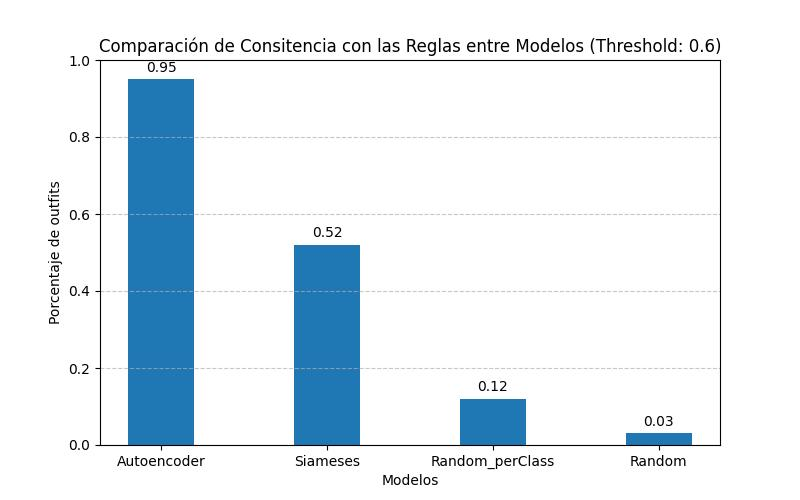
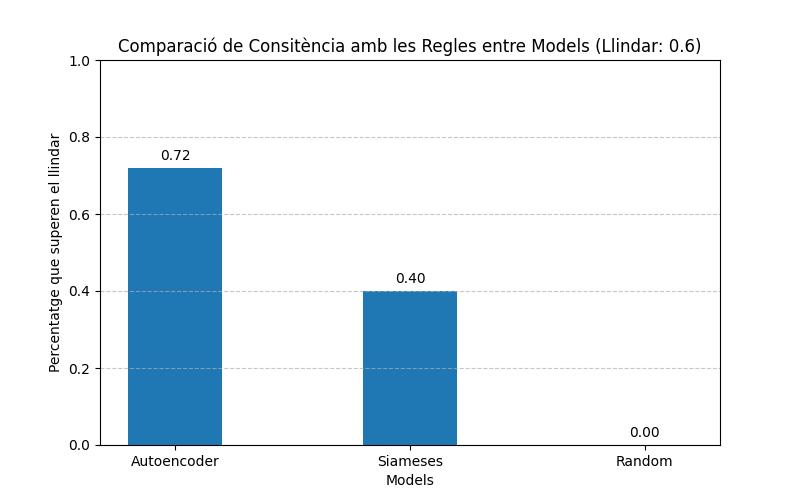
last changes

diff --git a/metrica_reglas.py b/metrica_reglas.py
@@ -47,15 +47,15 @@ def validate_outfit_multidimensional(outfit, compatibility_matrices, encoders):
                 else:
                     raise ValueError("Solo se soportan matrices de 2 o 3 dimensiones.")
 
-                total_score += compatibility
+                total_score += (compatibility**0.6)
                 count += 1
 
-    return total_score / count if count > 0 else 0
+    return (total_score / count if count > 0 else 0)**(1/0.6)
 
 
 def evaluate_recommendations_multidimensional(recommendations_df, compatibility_matrices, encoders, threshold=0.55):
     compliant = 0
-    
+    mean=[]
     # Convertir el DataFrame en una lista de outfits
     grouped_recommendations = recommendations_df.groupby('outfit_id')  # Agrupa por una columna "outfit_id"
     for _, group in grouped_recommendations:
@@ -63,8 +63,10 @@ def evaluate_recommendations_multidimensional(recommendations_df, compatibility_
         score = validate_outfit_multidimensional(outfit, compatibility_matrices, encoders)
         if score >= threshold:  # Cumple si el score >= threshold
             compliant += 1
+        mean.append(score)
     compliance_rate = compliant / len(grouped_recommendations)
-    return compliance_rate
+#    mean= mean  / len(grouped_recommendations)
+    return compliance_rate , mean
 
 
 # Define helper functions
@@ -99,36 +101,36 @@ outfits_random_perClass_df=pd.read_csv(path_resources+"outfits_random_perClass.c
 
 threshold=0.6
 # Evaluar las recomendaciones
-compliance_rate_autoeencoder = evaluate_recommendations_multidimensional(outfits_autoencoder_df, 
+compliance_rate_autoeencoder, mean_autoeencoder= evaluate_recommendations_multidimensional(outfits_autoencoder_df, 
                                                                          compatibility_matrices, encoders,threshold)
 
 with open(path_resources+'autoencoder_encoders.pkl', 'rb') as file:
     encoders = pickle.load(file)
 
 # Evaluar las recomendaciones
-compliance_rate_siameses = evaluate_recommendations_multidimensional(outfits_siameses_df, 
+compliance_rate_siameses, mean_siameses = evaluate_recommendations_multidimensional(outfits_siameses_df, 
                                                                      compatibility_matrices, encoders,threshold)
 
 
 # Evaluar las recomendaciones
-compliance_rate_random = evaluate_recommendations_multidimensional(outfits_aleatorios_df, 
+compliance_rate_random, mean_random = evaluate_recommendations_multidimensional(outfits_aleatorios_df, 
                                                                    compatibility_matrices, encoders,threshold)
 
 
-compliance_rate_randomPerclass = evaluate_recommendations_multidimensional(outfits_random_perClass_df, 
+compliance_rate_randomPerclass, mean_randomPerclass = evaluate_recommendations_multidimensional(outfits_random_perClass_df, 
                                                                    compatibility_matrices, encoders,threshold)
 
 
-models = ['Autoencoder', 'Siameses','Random_perClass' ,'Random']
-accuracies = [compliance_rate_autoeencoder, compliance_rate_siameses, compliance_rate_randomPerclass ,compliance_rate_random]
+models = ['Autoencoder', 'Siameses' ,'Random']
+accuracies = [compliance_rate_autoeencoder, compliance_rate_siameses ,compliance_rate_random]
 
 # Crear el gráfico de barras
 plt.figure(figsize=(8, 5))
 plt.bar(models, accuracies, width=0.4)
 plt.ylim(0, 1)  # Rango de 0 a 1 para representar accuracies
-plt.title(f'Comparación de Consitencia con las Reglas entre Modelos (Threshold: {threshold})')
-plt.ylabel('Porcentaje de outfits')
-plt.xlabel('Modelos')
+plt.title(f'Comparació de Consitència amb les Regles entre Models (Llindar: {threshold})')
+plt.ylabel('Percentatge que superen el llindar')
+plt.xlabel('Models')
 plt.grid(axis='y', linestyle='--', alpha=0.7)
 # Mostrar los valores sobre las barras
 for i, v in enumerate(accuracies):
@@ -136,3 +138,21 @@ for i, v in enumerate(accuracies):
 
 
 plt.savefig(os.getcwd() + "/archivos_informe/grafico_reglas.jpg")
+
+
+
+means = [mean_autoeencoder, mean_siameses ,mean_random]
+
+# Crear el boxplot
+plt.figure(figsize=(8, 5))
+plt.boxplot(means, labels=models)
+
+# Configuración del gráfico
+plt.ylim(0, 1)  # Ajustar rango de valores
+plt.title('Distribució de Consitència amb les Regles entre Models')
+plt.ylabel('Consitència')
+plt.xlabel('Models')
+plt.grid(axis='y', linestyle='--', alpha=0.7)
+
+
+plt.savefig(os.getcwd() + "/archivos_informe/grafico_reglas_distribucion.jpg")

diff --git a/generate_outfits_aval.py b/generate_outfits_aval.py
@@ -70,7 +70,6 @@ siameses_model=OutfitRecommenderSiameses(path_resources)
 
 
 for index, df_data_prenda in samples.iterrows():
-    print(outfit_id)
     # Descargar imagen con reintentos
     image = get_image_with_retries(df_data_prenda["link"], max_retries=3, delay=3)
     if image is None:
@@ -83,7 +82,7 @@ for index, df_data_prenda in samples.iterrows():
     input_data[columnas_letab] = preprocess_input_data(df_data_prenda[columnas_letab], autoencoder_model)
     input_data_drop = input_data.drop(["image", "id", "link"], errors="ignore", axis=1)
     tensor_tuple = get_tensor_tuple(input_data_drop)
-    input_embedding = autoencoder_model.get_embedding(image, tensor_tuple) #input_embeddings np.array (1,250)
+    input_embedding = autoencoder_model.get_embedding(image, tensor_tuple) 
 
     indices, scores = autoencoder_model.iterative_max_score_selection(tensor_tuple, input_embedding)
     data_indices = autoencoder_model.catalog_tab_all[indices]
@@ -100,6 +99,8 @@ for index, df_data_prenda in samples.iterrows():
 
 
     outfits_autoencoder.append(df_outfit_autoencoder)
+
+#---------------------------------------------------------------------------------
 
     # Procesar datos con Siameses
     input_data_drop = df_data_prenda.iloc[0].drop(["image", "link"], errors="ignore", axis=0)
@@ -190,51 +191,3 @@ outfits_aleatorios_df = pd.concat(outfits, ignore_index=True)
 outfits_aleatorios_df.to_csv(path_resources + "outfits_generate_random.csv", index=False)
 
 
-
-# Filtrar categorías
-Topwear_cat = catalog_all[catalog_all["subCategory"] == "Topwear"]
-Bottomwear_cat = catalog_all[catalog_all["subCategory"] == "Bottomwear"]
-Shoes_cat = catalog_all[catalog_all["subCategory"] == "Shoes"]
-over_Topwear_cat = catalog_all[catalog_all["subCategory"] == "over_Topwear"]
-Dress_cat = catalog_all[catalog_all["subCategory"] == "Dress"]
-
-outfits=[]
-outfit_id=0
-num_outfits_ran = 100  # Cambiar según el número de outfits deseados
-for _ in range(num_outfits_ran):
-    outfit = []
-
-    # Seleccionar una fila aleatoria de cada categoría necesaria
-    shoes = Shoes_cat.sample(1).copy()
-    shoes["outfit_id"] = outfit_id
-    outfit.append(shoes)
-
-    over_topwear = over_Topwear_cat.sample(1).copy()
-    over_topwear["outfit_id"] = outfit_id
-    outfit.append(over_topwear)
-
-    if random.choice([True, False]):  # Decidir entre Dress o (Bottomwear + Topwear)
-        topwear = Topwear_cat.sample(1).copy()
-        topwear["outfit_id"] = outfit_id
-        outfit.append(topwear)
-
-        bottomwear = Bottomwear_cat.sample(1).copy()
-        bottomwear["outfit_id"] = outfit_id
-        outfit.append(bottomwear)
-    else:
-        dress = Dress_cat.sample(1).copy()
-        dress["outfit_id"] = outfit_id
-        outfit.append(dress)
-
-    # Concatenar las filas del outfit actual
-    outfits.append(pd.concat(outfit))
-
-    # Incrementar el ID del outfit
-    outfit_id += 1
-
-# Concatenar todos los outfits en un único DataFrame
-outfit_perclass = pd.concat(outfits, ignore_index=True)
-
-# Guardar en un archivo CSV
-output_file = path_resources + "outfits_random_perClass.csv"
-outfit_perclass.to_csv(output_file, index=False)
